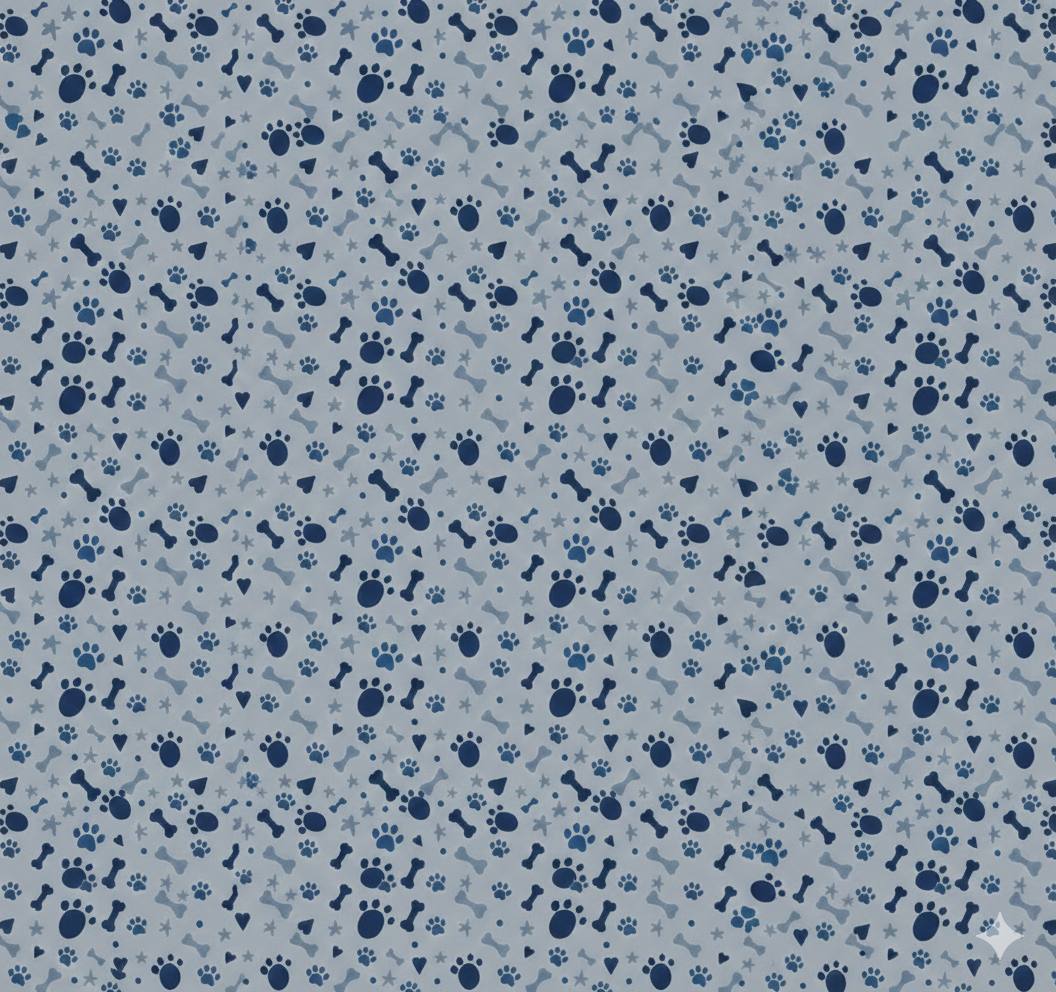
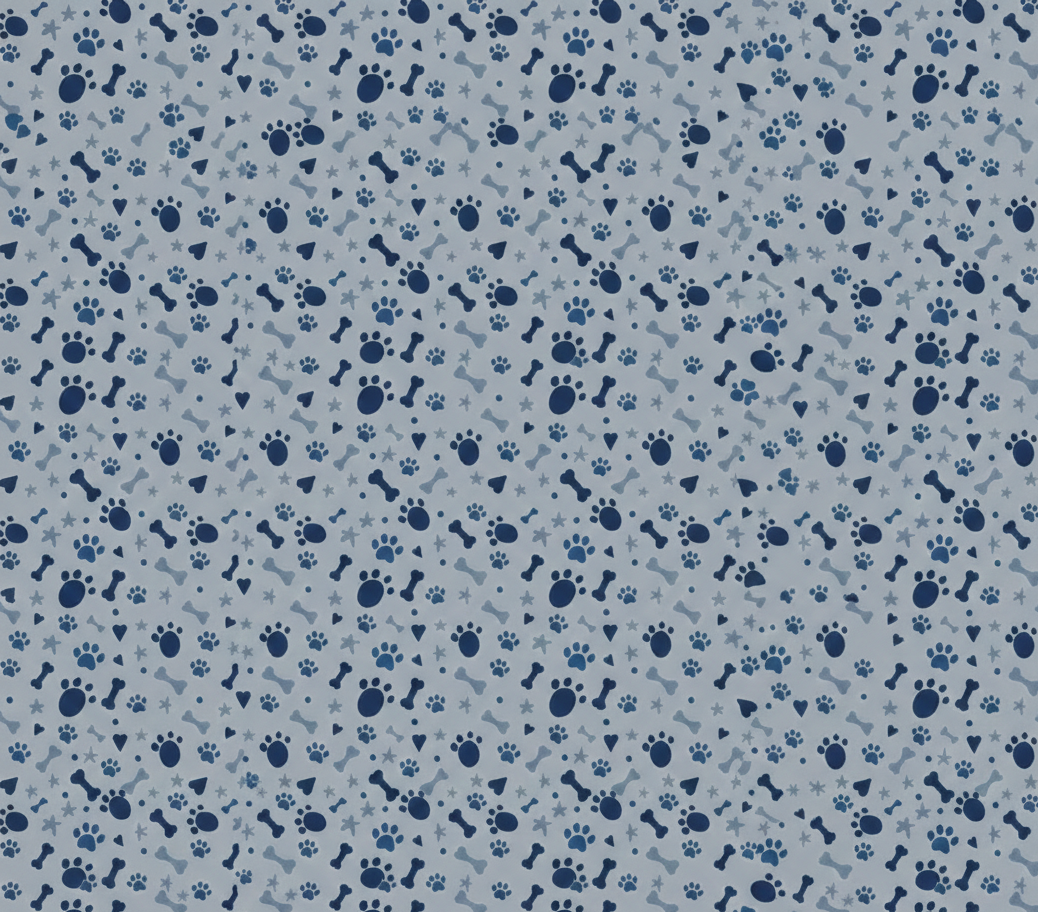
creacion de vista de inicio

diff --git a/src/components/auth/RegisterForm.tsx b/src/components/auth/RegisterForm.tsx
@@ -5,7 +5,7 @@ import { Input } from '@/components/ui';
 import type { RegisterFormData, RegisterFormProps } from '@/schemas/auth.schema';
 
 export const RegisterForm: React.FC<RegisterFormProps> = ({ onSubmit }) => {
-  const [formData, setFormData] = useState<RegisterFormData>({
+  const [formData, setFormData] = useState({
     nombreRefugio: '',
     capacidad: '',
     estado: '',
@@ -29,7 +29,23 @@ export const RegisterForm: React.FC<RegisterFormProps> = ({ onSubmit }) => {
 
   const handleSubmit = (e: React.FormEvent) => {
     e.preventDefault();
-    onSubmit?.(formData);
+    const dataToSubmit: RegisterFormData = {
+      nombreRefugio: formData.nombreRefugio,
+      capacidad: Number(formData.capacidad) || 0,
+      estado: formData.estado,
+      municipio: formData.municipio,
+      colonia: formData.colonia,
+      calle: formData.calle,
+      numeroInterior: formData.numeroInterior,
+      numeroExterior: formData.numeroExterior,
+      nombres: formData.nombres,
+      apellidoPaterno: formData.apellidoPaterno,
+      apellidoMaterno: formData.apellidoMaterno,
+      email: formData.email,
+      contrasena: formData.contrasena,
+      confirmarContrasena: formData.confirmarContrasena,
+    };
+    onSubmit?.(dataToSubmit);
   };
 
   return (
@@ -38,7 +54,7 @@ export const RegisterForm: React.FC<RegisterFormProps> = ({ onSubmit }) => {
         className="absolute inset-0 bg-repeat"
         style={{
           backgroundImage: 'url(/imagenes/Fondo-inicio-sesion.png)',
-          backgroundSize: '400px 400px',
+          backgroundSize: 'auto',
         }}
       />
       
@@ -54,7 +70,7 @@ export const RegisterForm: React.FC<RegisterFormProps> = ({ onSubmit }) => {
               value={formData.nombreRefugio}
               onChange={handleInputChange}
               placeholder="Nombre del refugio"
-              className="bg-[#FFFFFF] border-none placeholder:text-gray-500"
+              className="bg-[#D9D9D9] border-none placeholder:text-gray-500"
             />
             
             <Input
@@ -63,7 +79,7 @@ export const RegisterForm: React.FC<RegisterFormProps> = ({ onSubmit }) => {
               value={formData.capacidad}
               onChange={handleInputChange}
               placeholder="Capacidad"
-              className="bg-[#FFFFFF] border-none placeholder:text-gray-500"
+              className="bg-[#D9D9D9] border-none placeholder:text-gray-500"
             />
 
             <div className="pt-2">
@@ -77,7 +93,7 @@ export const RegisterForm: React.FC<RegisterFormProps> = ({ onSubmit }) => {
                   value={formData.estado}
                   onChange={handleInputChange}
                   placeholder="Estado"
-                  className="bg-[#FFFFFF] border-none placeholder:text-gray-500"
+                  className="bg-[#D9D9D9] border-none placeholder:text-gray-500"
                 />
                 
                 <Input
@@ -85,7 +101,7 @@ export const RegisterForm: React.FC<RegisterFormProps> = ({ onSubmit }) => {
                   value={formData.municipio}
                   onChange={handleInputChange}
                   placeholder="Municipio"
-                  className="bg-[#FFFFFF] border-none placeholder:text-gray-500"
+                  className="bg-[#D9D9D9] border-none placeholder:text-gray-500"
                 />
                 
                 <Input
@@ -93,7 +109,7 @@ export const RegisterForm: React.FC<RegisterFormProps> = ({ onSubmit }) => {
                   value={formData.colonia}
                   onChange={handleInputChange}
                   placeholder="Colonia"
-                  className="bg-[#FFFFFF] border-none placeholder:text-gray-500"
+                  className="bg-[#D9D9D9] border-none placeholder:text-gray-500"
                 />
                 
                 <Input
@@ -101,7 +117,7 @@ export const RegisterForm: React.FC<RegisterFormProps> = ({ onSubmit }) => {
                   value={formData.calle}
                   onChange={handleInputChange}
                   placeholder="Calle"
-                  className="bg-[#FFFFFF] border-none placeholder:text-gray-500"
+                  className="bg-[#D9D9D9] border-none placeholder:text-gray-500"
                 />
                 
                 <div className="grid grid-cols-2 gap-4">
@@ -110,7 +126,7 @@ export const RegisterForm: React.FC<RegisterFormProps> = ({ onSubmit }) => {
                     value={formData.numeroInterior}
                     onChange={handleInputChange}
                     placeholder="Número interior"
-                    className="bg-[#FFFFFF] border-none placeholder:text-gray-500"
+                    className="bg-[#D9D9D9] border-none placeholder:text-gray-500"
                   />
                   
                   <Input
@@ -118,7 +134,7 @@ export const RegisterForm: React.FC<RegisterFormProps> = ({ onSubmit }) => {
                     value={formData.numeroExterior}
                     onChange={handleInputChange}
                     placeholder="Número exterior"
-                    className="bg-[#FFFFFF] border-none placeholder:text-gray-500"
+                    className="bg-[#D9D9D9] border-none placeholder:text-gray-500"
                   />
                 </div>
               </div>
@@ -136,7 +152,7 @@ export const RegisterForm: React.FC<RegisterFormProps> = ({ onSubmit }) => {
                   value={formData.nombres}
                   onChange={handleInputChange}
                   placeholder="Nombres"
-                  className="bg-[#FFFFFF] border-none placeholder:text-gray-500"
+                  className="bg-[#D9D9D9] border-none placeholder:text-gray-500"
                 />
                 
                 <Input
@@ -144,7 +160,7 @@ export const RegisterForm: React.FC<RegisterFormProps> = ({ onSubmit }) => {
                   value={formData.apellidoPaterno}
                   onChange={handleInputChange}
                   placeholder="Apellido Paterno"
-                  className="bg-[#FFFFFF] border-none placeholder:text-gray-500"
+                  className="bg-[#D9D9D9] border-none placeholder:text-gray-500"
                 />
                 
                 <Input
@@ -152,7 +168,7 @@ export const RegisterForm: React.FC<RegisterFormProps> = ({ onSubmit }) => {
                   value={formData.apellidoMaterno}
                   onChange={handleInputChange}
                   placeholder="Apellido Materno"
-                  className="bg-[#FFFFFF] border-none placeholder:text-gray-500"
+                  className="bg-[#D9D9D9] border-none placeholder:text-gray-500"
                 />
                 
                 <Input
@@ -161,7 +177,7 @@ export const RegisterForm: React.FC<RegisterFormProps> = ({ onSubmit }) => {
                   value={formData.email}
                   onChange={handleInputChange}
                   placeholder="email"
-                  className="bg-[#FFFFFF] border-none placeholder:text-gray-500"
+                  className="bg-[#D9D9D9] border-none placeholder:text-gray-500"
                 />
                 
                 <Input
@@ -170,7 +186,7 @@ export const RegisterForm: React.FC<RegisterFormProps> = ({ onSubmit }) => {
                   value={formData.contrasena}
                   onChange={handleInputChange}
                   placeholder="Contraseña"
-                  className="bg-[#FFFFFF] border-none placeholder:text-gray-500"
+                  className="bg-[#D9D9D9] border-none placeholder:text-gray-500"
                 />
               </div>
             </div>
@@ -181,14 +197,14 @@ export const RegisterForm: React.FC<RegisterFormProps> = ({ onSubmit }) => {
                   value={formData.confirmarContrasena}
                   onChange={handleInputChange}
                   placeholder="Confirmar contraseña"
-                  className="bg-[#FFFFFF] border-none placeholder:text-gray-500"
+                  className="bg-[#D9D9D9] border-none placeholder:text-gray-500"
                 />
 
 
             <div className="pt-6">
               <button
                 type="submit"
-                className="w-full bg-[#2B264F] text-white py-3 rounded-lg text-lg font-medium hover:bg-[#1F1B3D] transition-colors"
+                className="w-full bg-[#2B264F] text-white py-2 rounded-3xl text-lg font-semibold hover:bg-[#1F1B3D] transition-colors"
               >
                 Registrarse
               </button>

diff --git a/src/components/auth/LoginForm.tsx b/src/components/auth/LoginForm.tsx
@@ -1,0 +1,71 @@
+'use client';
+
+import React, { useState } from 'react';
+import { Input } from '@/components/ui';
+import type { LoginFormData, LoginFormProps } from '@/schemas/auth.schema';
+
+export const LoginForm: React.FC<LoginFormProps> = ({ onSubmit }) => {
+  const [formData, setFormData] = useState<LoginFormData>({
+    email: '',
+    password: '',
+  });
+
+  const handleInputChange = (e: React.ChangeEvent<HTMLInputElement>) => {
+    const { name, value } = e.target;
+    setFormData((prev) => ({ ...prev, [name]: value }));
+  };
+
+  const handleSubmit = (e: React.FormEvent) => {
+    e.preventDefault();
+    onSubmit?.(formData);
+  };
+
+  return (
+    <div className="min-h-screen w-full relative overflow-hidden">
+      <div 
+        className="absolute inset-0 bg-repeat"
+        style={{
+          backgroundImage: 'url(/imagenes/Fondo-inicio-sesion.png)',
+          backgroundSize: 'auto',
+        }}
+      />
+      
+      <div className="relative z-10 flex items-center justify-center min-h-screen py-12 px-4">
+        <div className="bg-[#E8E8E8] rounded-3xl shadow-2xl w-full max-w-md p-8">
+          <h1 className="text-3xl font-bold text-[#182F51] text-center mb-8">
+            Bienvenido
+          </h1>
+
+          <form onSubmit={handleSubmit} className="space-y-6">
+            <Input
+              name="email"
+              type="email"
+              value={formData.email}
+              onChange={handleInputChange}
+              placeholder="Ingrese su usuario"
+              className="bg-[#D9D9D9] border-none placeholder:text-gray-600"
+            />
+            
+            <Input
+              name="password"
+              type="password"
+              value={formData.password}
+              onChange={handleInputChange}
+              placeholder="Ingrese su contraseña"
+              className="bg-[#D9D9D9] border-none placeholder:text-gray-600"
+            />
+
+            <div className="pt-4">
+              <button
+                type="submit"
+                className="w-full bg-[#2B264F] text-white py-2 rounded-full text-lg font-medium hover:bg-[#1F1B3D] transition-colors"
+              >
+                Iniciar
+              </button>
+            </div>
+          </form>
+        </div>
+      </div>
+    </div>
+  );
+};

diff --git a/src/components/ui/Input.tsx b/src/components/ui/Input.tsx
@@ -21,7 +21,8 @@ export const Input: React.FC<InputProps> = ({
         </label>
       )}
       <input 
-        className={`w-full px-4 py-2 border border-gray-300 rounded-lg ${defaultBg} text-black focus:outline-none focus:border-[#194566] focus:ring-2 focus:ring-[#194566] focus:ring-opacity-20 disabled:bg-gray-100 disabled:text-gray-500 disabled:cursor-not-allowed disabled:border-gray-300 ${
+        className={`w-full px-4 py-2 border border-gray-300 rounded-lg ${defaultBg} text-black focus:outline-none focus:border-[#194566] focus:ring-2 focus:ring-[#194566] focus:ring-opacity-20 disabled:bg-gray-100 disabled:text-gray-500 disabled:cursor-not-allowed disabled:border-gray-300 
+          autofill:bg-inherit autofill:shadow-[inset_0_0_0px_1000px_rgb(255,255,255)] ${
           error ? 'border-red-500' : ''
         } ${className}`}
         {...props}

diff --git a/src/app/auth/login/page.tsx b/src/app/auth/login/page.tsx
@@ -1,0 +1,24 @@
+'use client';
+
+import React from 'react';
+import { useRouter } from 'next/navigation';
+import { LoginForm } from '@/components/auth';
+
+export default function LoginPage() {
+  const router = useRouter();
+
+  const handleLogin = async (data: any) => {
+    try {
+      console.log('Datos de login:', data);
+      // Aquí irá la lógica de login con el backend
+      // await AuthService.login(data);
+      
+      // Redirigir al dashboard después del login exitoso
+      // router.push('/dashboard');
+    } catch (error) {
+      console.error('Error en el login:', error);
+    }
+  };
+
+  return <LoginForm onSubmit={handleLogin} />;
+}

diff --git a/src/app/auth/registro/page.tsx b/src/app/auth/registro/page.tsx
@@ -13,8 +13,8 @@ export default function RegistroPage() {
       // Aquí irá la lógica de registro con el backend
       // await AuthService.register(data);
       
-      // Redirigir al login después del registro exitoso
-      // router.push('/auth/login');
+      // TODO: Redirigir al dashboard después del registro exitoso
+      // router.push('/dashboard');
     } catch (error) {
       console.error('Error en el registro:', error);
     }

diff --git a/src/schemas/auth.schema.ts b/src/schemas/auth.schema.ts
@@ -1,6 +1,6 @@
 export interface RegisterFormData {
   nombreRefugio: string;
-  capacidad: string;
+  capacidad: number;
   estado: string;
   municipio: string;
   colonia: string;
